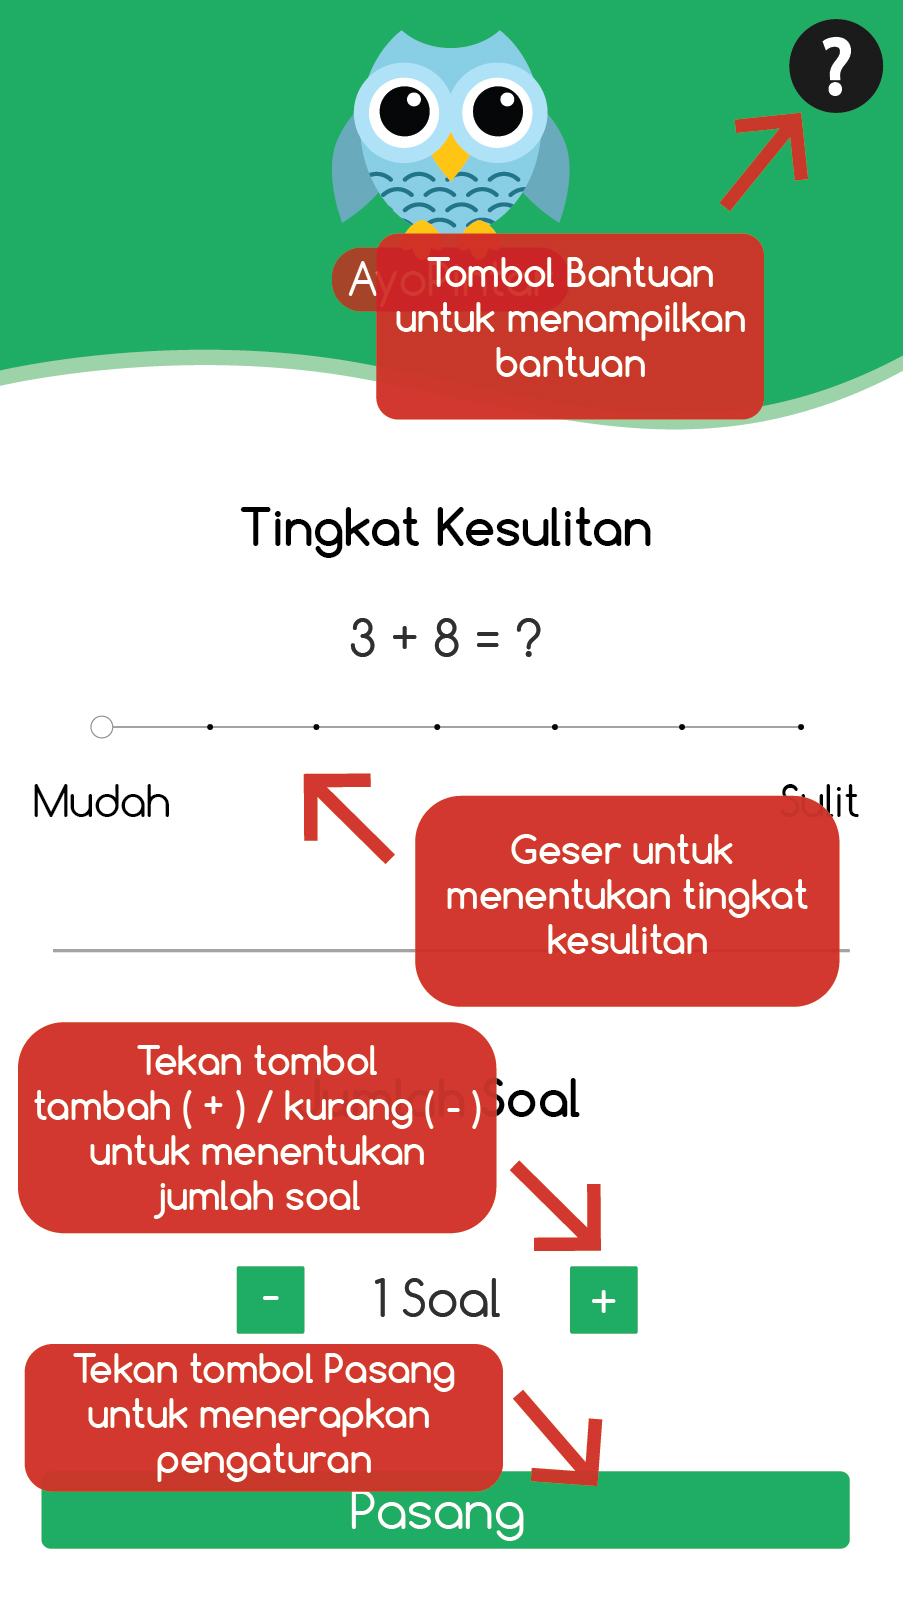
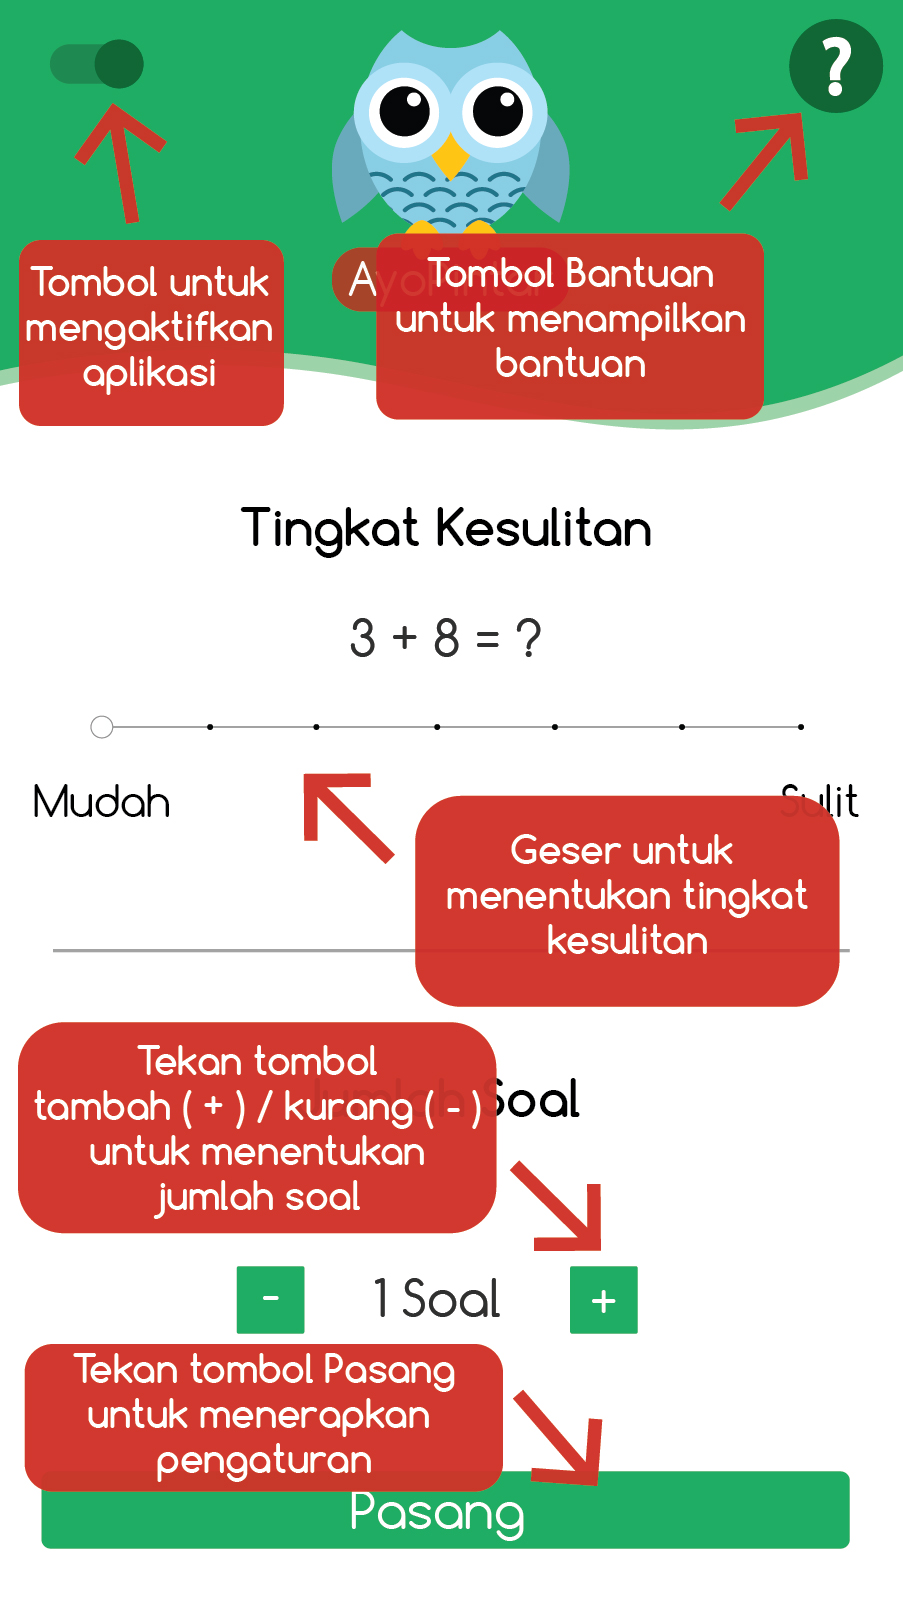
AyoPintar V2 - 19 Agustus 2017

Changed region(s): [[0.0, 0.0, 0.3411, 0.2802], [0.8682, 0.0, 0.9922, 0.0934]]

diff --git a/src/pages/home/home.html b/src/pages/home/home.html
@@ -18,9 +18,12 @@
   
   </ion-grid> -->
     <ion-fab top right >
-      <button color="dark" ion-fab mini (click)='gotoHelp()'>
+      <button color="ijoTua" ion-fab mini (click)='gotoHelp()'>
           <ion-icon class="icon" name="md-help" ></ion-icon>
         </button>
+    </ion-fab>
+    <ion-fab top left >
+      <ion-toggle color="ijoTua" checked="true"></ion-toggle>
     </ion-fab>
     <!--<ion-item no-lines class="transparent" text-right>
     <ion-icon name="ios-help-circle-outline" class="icon"></ion-icon>

diff --git a/src/theme/variables.scss b/src/theme/variables.scss
@@ -38,7 +38,7 @@ $colors: (
   secondary:  #32db64,
   ijo: #1bac63,
   grey: #6a6a6a,
-  ijoTUa : #005428,
+  ijoTua : #005428,
   danger:     #f53d3d,
   light:      #f4f4f4,
   dark:       #222,
